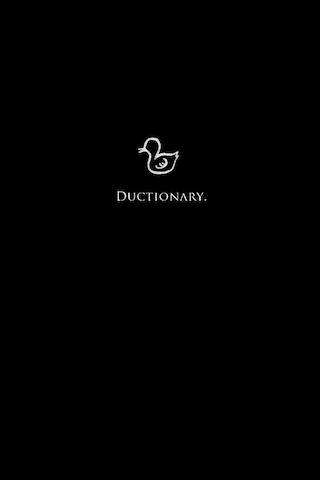
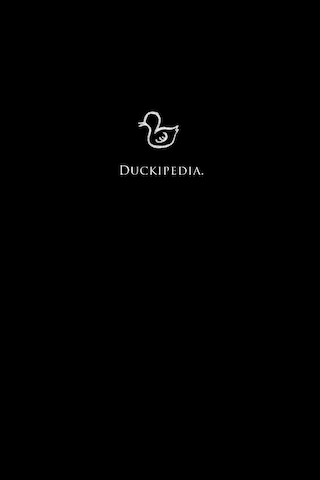
启动画面，去掉button类，添加advice页

Changed region(s): [[0.3438, 0.2188, 0.6562, 0.4375]]

diff --git a/Wikish/Controller/HelpController.m b/Wikish/Controller/HelpController.m
@@ -14,8 +14,19 @@
 
 @implementation HelpController
 
+- (id)initWithShouldShowAdvicePage:(BOOL)should {
+    self = [super init];
+    if (self) {
+        _shouldShowAdvicePage = should;
+    }
+    return self;
+}
+
 - (void)viewDidLoad {
-    self.scroller.contentSize = CGSizeMake(CGRectGetWidth(self.scroller.bounds) * 3, CGRectGetHeight(self.scroller.bounds));
+    int pages = 3;
+    if (_shouldShowAdvicePage) pages = 4;
+    
+    self.scroller.contentSize = CGSizeMake(CGRectGetWidth(self.scroller.bounds) * pages, CGRectGetHeight(self.scroller.bounds));
     [self.scroller addSubview:self.page1];
 }
 
@@ -24,7 +35,7 @@
         CGFloat scrollerWidth = CGRectGetWidth(self.scroller.bounds);
         CGFloat scrollerHeight = CGRectGetHeight(self.scroller.bounds);
         
-        self.scroller.contentSize = CGSizeMake(scrollerWidth * 3, scrollerHeight);
+        self.scroller.contentSize = CGSizeMake(self.scroller.contentSize.width, scrollerHeight);
         self.page1.frame = CGRectMake(0, 0, scrollerWidth, scrollerHeight);
         
         self.page2.frame = CGRectMake(scrollerWidth, 0, scrollerWidth, scrollerHeight);
@@ -32,6 +43,11 @@
         
         self.page3.frame = CGRectMake(scrollerWidth * 2, 0, scrollerWidth, scrollerHeight);
         [self.scroller addSubview:self.page3];
+        
+        if (_shouldShowAdvicePage) {
+            self.adviceView.frame = CGRectMake(scrollerWidth * 3, 0, scrollerWidth, scrollerHeight);
+            [self.scroller addSubview:self.adviceView];
+        }
         
         self.pageControl = [[StyledPageControl alloc] initWithFrame:CGRectMake(0, CGRectGetHeight(self.view.bounds) - 20, scrollerWidth, 10)];
         self.pageControl.diameter = 8.0f;
@@ -48,6 +64,7 @@
     [self setPage2:nil];
     [self setPage3:nil];
     [self setPageControl:nil];
+    [self setAdviceView:nil];
     [super viewDidUnload];
 }
 

diff --git a/Wikish/Controller/HelpController.h b/Wikish/Controller/HelpController.h
@@ -14,9 +14,13 @@
 @property (strong, nonatomic) IBOutlet UIView *page1;
 @property (strong, nonatomic) IBOutlet UIView *page2;
 @property (strong, nonatomic) IBOutlet UIView *page3;
+@property (strong, nonatomic) IBOutlet UIView *adviceView;
 @property (strong, nonatomic) StyledPageControl *pageControl;
+@property (assign, nonatomic, readonly) BOOL shouldShowAdvicePage;
 
 @property (copy, nonatomic) void (^okBlock)(void);
+
+- (id)initWithShouldShowAdvicePage:(BOOL)should;
 
 - (IBAction)okPressed:(id)sender;
 

diff --git a/Wikish/Controller/SettingViewController.h b/Wikish/Controller/SettingViewController.h
@@ -13,8 +13,8 @@
 
 @interface SettingViewController : UIViewController
 
-@property (nonatomic, weak) IBOutlet UIButton       *okButton;
-@property (nonatomic, weak) IBOutlet UIButton *helpButton;
+@property (nonatomic, weak) IBOutlet UIButton     *okButton;
+@property (nonatomic, weak) IBOutlet UIButton     *helpButton;
 @property (nonatomic, weak) IBOutlet UILabel      *settingLabel;
 
 @property (nonatomic, weak) IBOutlet UIView       *httpsView;

diff --git a/Wikish/Controller/SettingViewController.m b/Wikish/Controller/SettingViewController.m
@@ -93,7 +93,7 @@
 
 
 - (IBAction)helpButtonPressed:(id)sender {
-    HelpController *hCtrl = [HelpController new];
+    HelpController *hCtrl = [[HelpController alloc] initWithShouldShowAdvicePage:YES];
     HelpController * __weak wHCtrl = hCtrl;
     hCtrl.okBlock = ^{
         [wHCtrl dismissModalViewControllerAnimated:YES];
